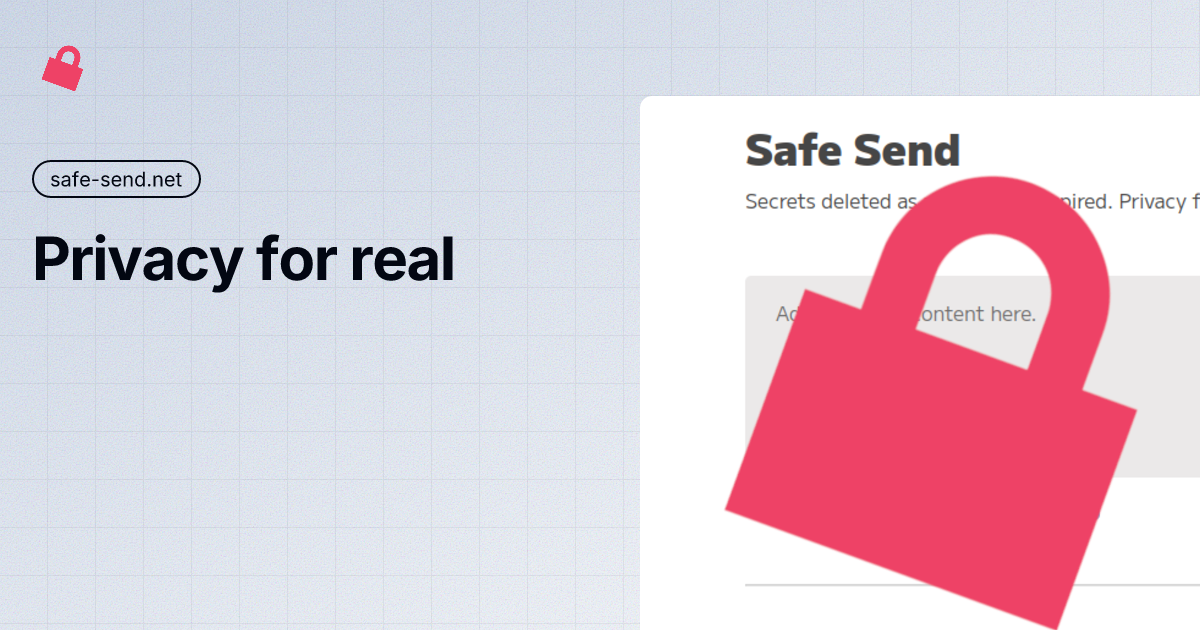
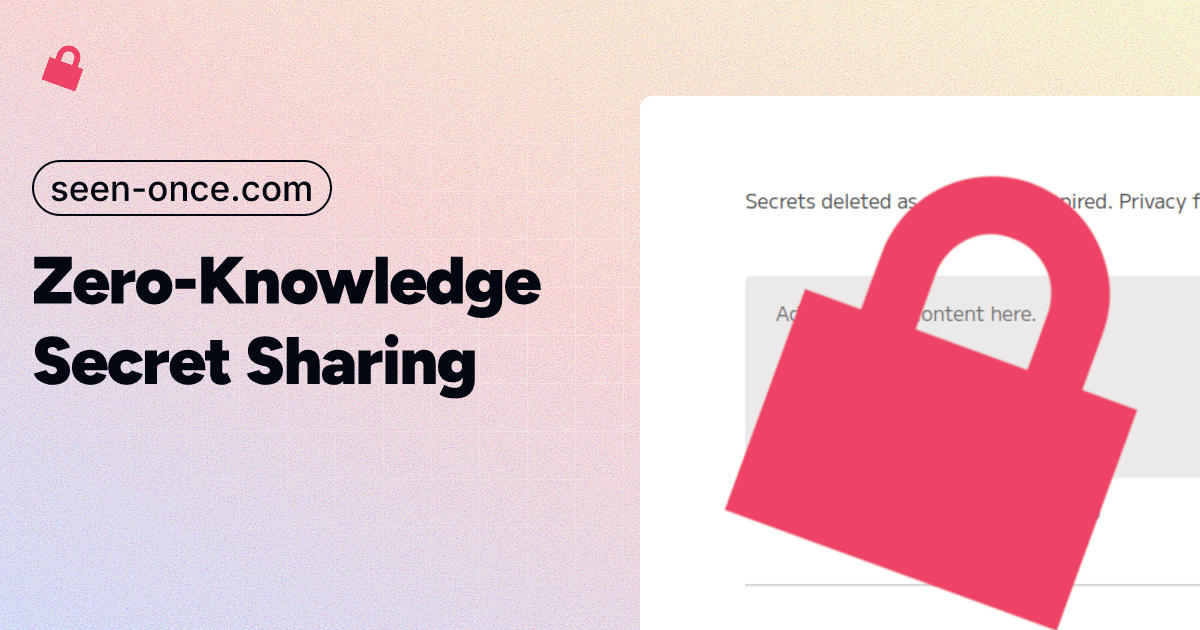
Renaming the everything

diff --git a/static/client/index.html b/static/client/index.html
@@ -7,38 +7,38 @@
         <link href="/assets/reset.css" rel="stylesheet" />
         <link href="/assets/style.css" rel="stylesheet" />
 
-        <title>Safe Send - Zero-Knowledge Secret Sharing</title>
+        <title>Seen Once - Zero-Knowledge Secret Sharing</title>
 
         <meta name="description" content="Share secrets securely. Client-side encryption, self-destructing links, zero logs. Privacy for real.">
-        <meta property="og:title" content="Safe Send - Zero-Knowledge Secret Sharing">
+        <meta property="og:title" content="Seen Once - Zero-Knowledge Secret Sharing">
         <meta property="og:description" content="Share secrets securely with client-side encryption and self-destructing links.">
-        <meta property="og:image" content="https://safe-send.net/assets/og-image.png">
-        <meta property="og:url" content="https://safe-send.net">
+        <meta property="og:image" content="https://seen-once.com/assets/og-image.png">
+        <meta property="og:url" content="https://seen-once.com">
         <meta name="twitter:card" content="summary_large_image">
 
         <script type="application/ld+json">
             {
                 "@context": "https://schema.org",
                 "@type": "WebApplication",
-                "name": "Safe Send",
+                "name": "Seen Once",
                 "description": "Zero-knowledge secret sharing with client-side encryption",
-                "url": "https://safe-send.net",
+                "url": "https://seen-once.com",
                 "applicationCategory": "SecurityApplication"
             }
         </script>
     </head>
     <body>
-        <h1 class="visually-hidden">Safe Send - Zero-Knowledge Secret Sharing</h1>
+        <h1 class="visually-hidden">Seen Once - Zero-Knowledge Secret Sharing</h1>
 
-        <div class="safe-send">
-            <div class="safe-send__inner page-width">
-                <div class="safe-send__intro">
-                    <a class="safe-send__intro-heading" href="https://safe-send.net">Safe Send</a>
+        <div class="seen-once">
+            <div class="seen-once__inner page-width">
+                <div class="seen-once__intro">
+                    <a class="seen-once__intro-heading" href="https://seen-once.com">Seen Once</a>
                     <p>Zero-Knowledge Secret Sharing</p>
                 </div>
-                <div class="safe-send__encrypt">
-                    <div class="safe-send__form form">
-                        <div class="safe-send__form-inner form-inner">
+                <div class="seen-once__encrypt">
+                    <div class="seen-once__form form">
+                        <div class="seen-once__form-inner form-inner">
                             <textarea rows="10" id="userInput" placeholder="Add your text content here."></textarea>
 
                             <label for="expiry">Time to live</label>
@@ -53,21 +53,21 @@
                         </div>
                     </div>
 
-                    <div class="safe-send__url-share-container">
+                    <div class="seen-once__url-share-container">
                         <p>Your secret is safe with me. Please share this link. Clicking it will copy to clipboard:</p>
                         <p><span id="url"></span></p>
                         <button type="submit" class="reset-app">Click here to start over</button>
                     </div>
                 </div>
-                <div class="safe-send__decrypt">
-                    <div class="safe-send__reveal">
-                        <div class="safe-send__reveal-inner">
+                <div class="seen-once__decrypt">
+                    <div class="seen-once__reveal">
+                        <div class="seen-once__reveal-inner">
                             <p>Click here to reveal your secret.</p>
                             <button type="submit" id="revealButton">Retrieve</button>
                         </div>
                     </div>
 
-                    <div class="safe-send__decrypted-message">
+                    <div class="seen-once__decrypted-message">
                         <div class="decrypted-message__success">
                             <p>Your message:</p>
                             <p id="decryptedMessage"></p>
@@ -130,7 +130,7 @@
                             <h2>How can I be sure it's secure?</h2>
                         </summary>
                         <disclosure>
-                            <p>The source code for this application is provided <a target="_blank" href="https://github.com/tlegasse/safe-send-net">at the link here</a>. Nothing hidden, nothing obscured.</p>
+                            <p>The source code for this application is provided <a target="_blank" href="https://github.com/tlegasse/seen-once">at the link here</a>. Nothing hidden, nothing obscured.</p>
                         </disclosure>
                     </details>
                 </div>
@@ -140,11 +140,11 @@
         <div id="copyToast"><p>URL copied!</p></div>
 
         <div class="footer">
-            <div class="safe-send__footer page-width">
+            <div class="seen-once__footer page-width">
                 <div class="footer__copyright">
                     <p>If you find this tool useful, <a target="_blank" href="https://github.com/sponsors/tlegasse">please consider sponsoring this project.</a></p>
                     <br>
-                    <p>©<span id="year"></span>, Safe Send - All Rights Reserved - <a href="mailto:tanner@legasse.dev">Contact me here</a> - <a target="_blank" href="https://github.com/tlegasse/safe-send-net">Source here</a></p>
+                    <p>©<span id="year"></span>, Seen Once - All Rights Reserved - <a href="mailto:tanner@legasse.dev">Contact me here</a> - <a target="_blank" href="https://github.com/tlegasse/seen-once">Source here</a></p>
                 </div>
             </div>
         </div>

diff --git a/static/client/assets/style.css b/static/client/assets/style.css
@@ -30,21 +30,21 @@
 * App state display toggles
 */
 
-.safe-send__encrypt,
-.safe-send__decrypt,
-.safe-send__url-share-container {
+.seen-once__encrypt,
+.seen-once__decrypt,
+.seen-once__url-share-container {
   display: none;
 }
 
-.safe-send[data-state="decrypt"] .safe-send__decrypt {
+.seen-once[data-state="decrypt"] .seen-once__decrypt {
   display: block;
 }
 
-.safe-send:not([data-state="decrypt"]) .safe-send__encrypt {
+.seen-once:not([data-state="decrypt"]) .seen-once__encrypt {
   display: block;
 }
 
-.safe-send.form-submitted .safe-send__url-share-container {
+.seen-once.form-submitted .seen-once__url-share-container {
   display: block;
 }
 
@@ -52,17 +52,17 @@
   opacity: 0;
 }
 
-.safe-send:not(.decoded-response-returned) .decrypted-message__failure,
-.safe-send:not(.decoded-response-returned) .decrypted-message__success {
+.seen-once:not(.decoded-response-returned) .decrypted-message__failure,
+.seen-once:not(.decoded-response-returned) .decrypted-message__success {
   display: none;
 }
 
 
-.safe-send__decrypted-message:not(.error) .decrypted-message__failure {
+.seen-once__decrypted-message:not(.error) .decrypted-message__failure {
   display: none;
 }
 
-.safe-send__decrypted-message.error .decrypted-message__success {
+.seen-once__decrypted-message.error .decrypted-message__success {
   display: none;
 }
 
@@ -70,23 +70,23 @@
   display: none;
 }
 
-.safe-send__decrypted-message[data-status-code="404"] .decrypted-message__failure-404 {
+.seen-once__decrypted-message[data-status-code="404"] .decrypted-message__failure-404 {
   display: block;
 }
 
-.safe-send__decrypted-message[data-status-code="500"] .decrypted-message__failure-500 {
+.seen-once__decrypted-message[data-status-code="500"] .decrypted-message__failure-500 {
   display: block;
 }
 
-.safe-send__decrypted-message:not([data-status-code="404"]):not([data-status-code="500"]) .decrypted-message__failure-other {
+.seen-once__decrypted-message:not([data-status-code="404"]):not([data-status-code="500"]) .decrypted-message__failure-other {
   display: none;
 }
 
-.safe-send.decoded-response-returned .safe-send__reveal {
+.seen-once.decoded-response-returned .seen-once__reveal {
   display: none;
 }
 
-.safe-send.form-submitted .form {
+.seen-once.form-submitted .form {
   display: none;
 }
 
@@ -225,7 +225,7 @@ details h2 {
   width: 80rem;
 }
 
-.safe-send {
+.seen-once {
   display: inline-block;
   width: 100%;
 }
@@ -278,7 +278,7 @@ strong {
   color: var(--error-fg);
 }
 
-.safe-send__inner > * {
+.seen-once__inner > :not(:first-child) {
   margin: 5rem 0;
 }
 
@@ -310,7 +310,7 @@ strong {
   pointer-events: none;
 }
 
-.safe-send__intro-heading {
+.seen-once__intro-heading {
   font-size: 3.5rem;
   margin-bottom: 1.5rem;
   margin-top: 2.5rem;
@@ -320,7 +320,7 @@ strong {
   display: block;
 }
 
-.safe-send__intro-heading .light-text {
+.seen-once__intro-heading .light-text {
   opacity: 0.25;
 }
 
@@ -334,7 +334,7 @@ strong {
 }
 
 .decrypted-message__failure button,
-.safe-send__url-share-container button,
+.seen-once__url-share-container button,
 .decrypted-message__success button {
   margin-top: 4.2rem;
 }

diff --git a/static/client/assets/script.js b/static/client/assets/script.js
@@ -1,4 +1,4 @@
-class SafeSendApp {
+class SeenOnceApp {
     createUrl   = 'https://22erbbnurht77kwkxzmfbkqp240laulz.lambda-url.us-east-1.on.aws/'
     retrieveUrl = 'https://fz5bva7ou3qhoyuhzsz6km2r5u0dgjet.lambda-url.us-east-1.on.aws/'
     appState
@@ -22,7 +22,7 @@ class SafeSendApp {
     }
 
     setupElements() {
-        this.appRoot = document.querySelector(".safe-send")
+        this.appRoot = document.querySelector(".seen-once")
         this.userInput = document.getElementById("userInput")
 
         this.expirySelector = document.getElementById("expiry")
@@ -32,7 +32,7 @@ class SafeSendApp {
 
         this.decryptSubmit = document.getElementById("revealButton")
         this.decryptMessageContent = document.getElementById("decryptedMessage")
-        this.decryptMessageContainer = document.querySelector(".safe-send__decrypted-message")
+        this.decryptMessageContainer = document.querySelector(".seen-once__decrypted-message")
 
         this.resetAppElements = document.querySelectorAll(".reset-app")
     }
@@ -202,7 +202,7 @@ class SafeSendApp {
 }
 
 document.addEventListener("DOMContentLoaded", () => {
-    new SafeSendApp()
+    new SeenOnceApp()
 
     const yearSelector = document.getElementById("year")
     yearSelector.innerHTML = (new Date).getFullYear()

diff --git a/client/client_stack.py b/client/client_stack.py
@@ -27,7 +27,7 @@ class ClientStack(Stack):
             scope="CLOUDFRONT",
             visibility_config=wafv2.CfnWebACL.VisibilityConfigProperty(
                 cloud_watch_metrics_enabled=True,
-                metric_name="safe-send-waf",
+                metric_name="seen-once-waf",
                 sampled_requests_enabled=True
             ),
             rules=[
@@ -51,7 +51,7 @@ class ClientStack(Stack):
         )
 
         client_zone = route53.PublicHostedZone(self, "HostedZone",
-                                 zone_name="safe-send.net"
+                                 zone_name="seen-once.com"
                                  )
 
         client_site_bucket = s3.Bucket(
@@ -77,8 +77,8 @@ class ClientStack(Stack):
         )
 
         cert = acm.Certificate(self, "SiteCert",
-            domain_name="safe-send.net",
-            subject_alternative_names=["www.safe-send.net"],
+            domain_name="seen-once.com",
+            subject_alternative_names=["www.seen-once.com"],
             validation=acm.CertificateValidation.from_dns(client_zone)
         )
 
@@ -116,7 +116,7 @@ class ClientStack(Stack):
                 viewer_protocol_policy=cloudfront.ViewerProtocolPolicy.REDIRECT_TO_HTTPS,
                 response_headers_policy=response_headers_policy
             ),
-            domain_names=["safe-send.net"],
+            domain_names=["seen-once.com"],
             certificate=cert,
             price_class=cloudfront.PriceClass.PRICE_CLASS_100,
             enable_logging=False,
@@ -137,8 +137,8 @@ class ClientStack(Stack):
         )
 
         route53_patterns.HttpsRedirect(self, "WwwRedirect",
-            record_names=["www.safe-send.net"],
-            target_domain="safe-send.net",
+            record_names=["www.seen-once.com"],
+            target_domain="seen-once.com",
             zone=client_zone
         )
 

diff --git a/server/server_stack.py b/server/server_stack.py
@@ -62,7 +62,7 @@ class ServerStack(Stack):
         put_url = create_secrets_lambda.add_function_url(
             auth_type=aws_lambda.FunctionUrlAuthType.NONE,
             cors=aws_lambda.FunctionUrlCorsOptions(
-                allowed_origins=["https://safe-send.net", "https://www.safe-send.net"],
+                allowed_origins=["https://seen-once.com", "https://www.seen-once.com"],
                 # allowed_origins=["*"],
                 allowed_methods=[aws_lambda.HttpMethod.PUT]
             )
@@ -71,7 +71,7 @@ class ServerStack(Stack):
         get_url = get_secrets_lambda.add_function_url(
             auth_type=aws_lambda.FunctionUrlAuthType.NONE,
             cors=aws_lambda.FunctionUrlCorsOptions(
-                allowed_origins=["https://safe-send.net", "https://www.safe-send.net"],
+                allowed_origins=["https://seen-once.com", "https://www.seen-once.com"],
                 # allowed_origins=["*"],
                 allowed_methods=[aws_lambda.HttpMethod.GET]
             )

diff --git a/README.md b/README.md
@@ -1,9 +1,9 @@
-# safe-send.net
+# seen-once.com
 A privacy first, second and third secrets sharing application.
 
 ## Why?
 This is the real world, if the general user perceives even slight friction in following security protocol sharing sensitive data, it's going in an email in plain text.
-It happens constantly, and especially now, data leaks happen constantly, and prying eyes are always on us. Enter Safe Send, my take on an essential privacy workflow, snappy and secure secrets sharing.
+It happens constantly, and especially now, data leaks happen constantly, and prying eyes are always on us. Enter Seen Once, my take on an essential privacy workflow, snappy and secure secrets sharing.
 To provide a secure environment, the following features are provided:
 - A zero trust means of sharing potentially secure data.
 - Secret deletion upon access or expiry.
